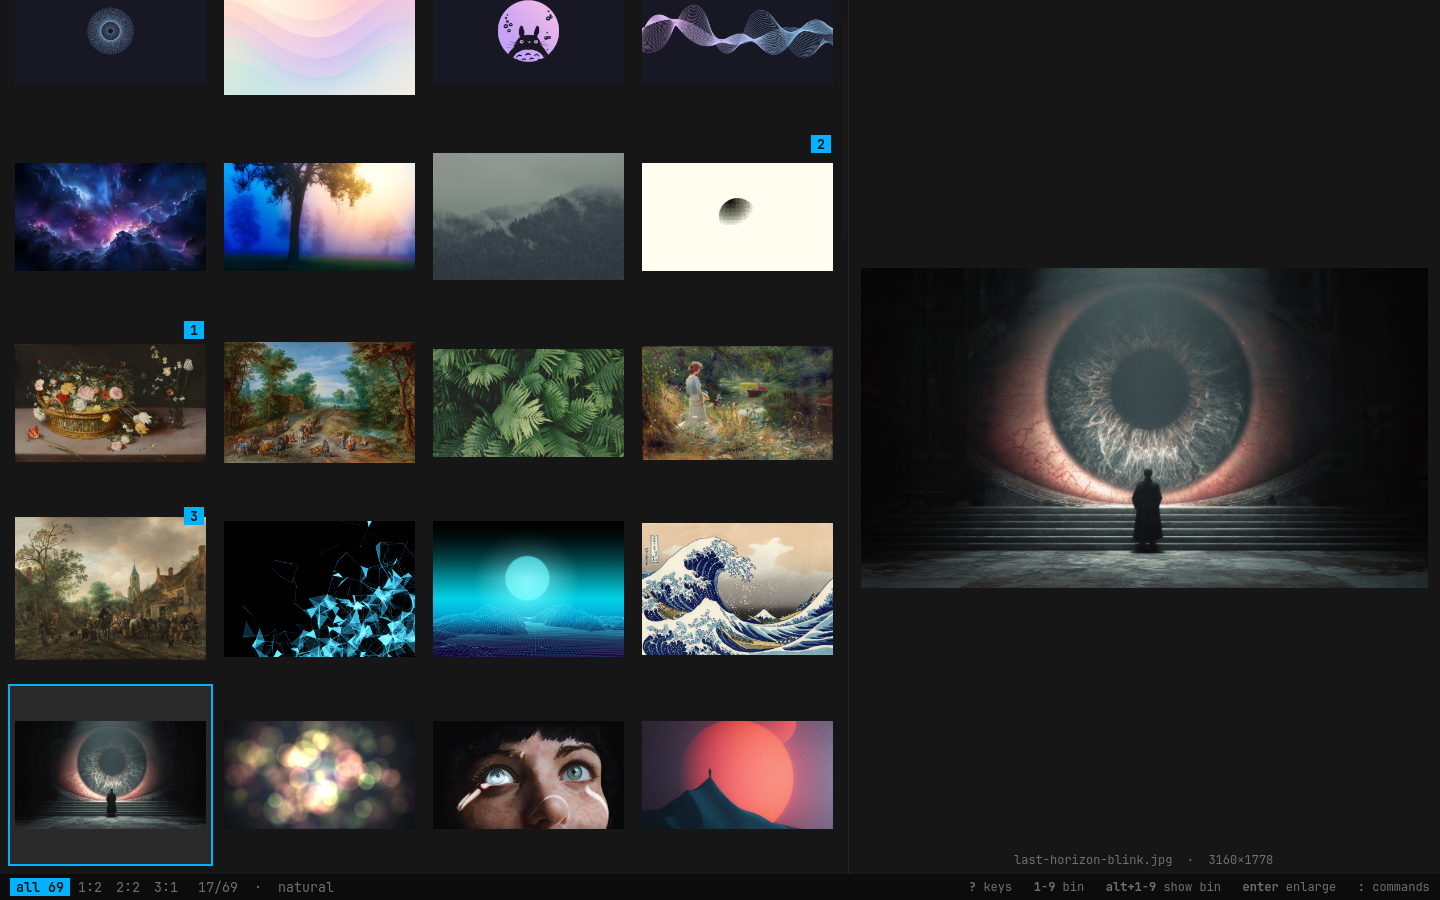
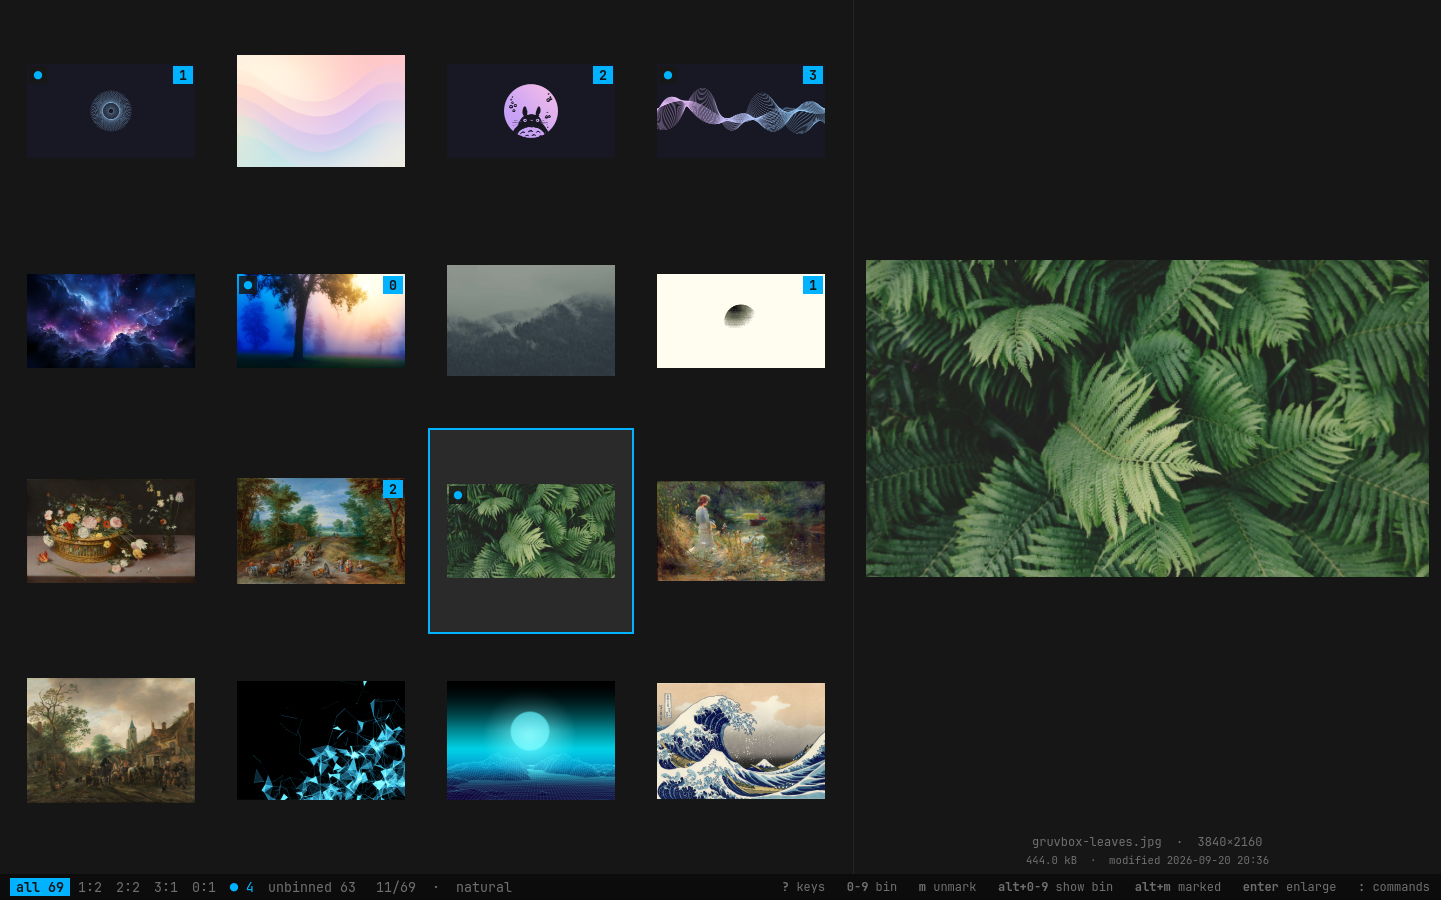
README: task recipes, grouped key tables, new screenshots

diff --git a/README.md b/README.md
@@ -4,7 +4,7 @@ A tiny, fast, keyboard-driven image viewer and *temporary* organizer for
 [Omarchy](https://omarchy.org) / Arch Linux. Native Rust + GTK4, themed from
 the active Omarchy theme.
 
-<img src="docs/screenshot.png" alt="omapic: thumbnail grid with workspace badges, preview pane and status line">
+<img src="docs/screenshot.png" alt="omapic: thumbnail grid with bin badges and marks, preview with info line, status line with context hints">
 
 The whole workflow:
 
@@ -33,9 +33,9 @@ Without the package, the desktop entry can be installed by hand:
     install -Dm644 data/org.omapic.Omapic.desktop -t ~/.local/share/applications/
     install -Dm644 data/org.omapic.Omapic.svg -t ~/.local/share/icons/hicolor/scalable/apps/
 
-ImageMagick (`magick`) is only needed for contact sheets. Animated GIFs play in
-the preview. JPEG, PNG, WebP,
-GIF and TIFF are loaded through gdk-pixbuf/glycin, which GTK4 already pulls in.
+ImageMagick (`magick`) is only needed for contact sheets and the suggested
+shell commands, `wl-clipboard` only to keep yanked paths after quitting.
+JPEG, PNG, WebP, GIF (animated in the preview) and TIFF are supported.
 
 ## Usage
 
@@ -43,67 +43,142 @@ GIF and TIFF are loaded through gdk-pixbuf/glycin, which GTK4 already pulls in.
     omapic image.jpg     # all images of that directory, image.jpg selected
     omapic DIR           # images of DIR
     omapic *.jpg …       # exactly the given files, in the given order
-
-With `--print` (or `--print0`), omapic writes the paths of the images shown
-at the moment you quit to stdout, in display order — so a bin can be handed
-to the shell without touching anything:
-
-    omapic --print *.jpg | xargs -d '\n' cp -t picked/    # quit while showing bin 1
+    omapic --print …     # on quit, print the paths of the images then shown
 
 Hover or move the selection to preview. The right end of the status line
-always hints at the keys that matter in the current context; `?` shows all.
+always hints at the keys that matter right now; `?` shows all of them.
+
+Three ideas carry everything:
+
+- **Bins** `1`…`9`, `0` — exclusive piles. Press a number to put the image in,
+  the same number to take it out. **Marks** (`m`) are one extra flag on top,
+  independent of the bins.
+- **Views** — `Alt+number` shows one bin, `Alt+M` the marked images, `Alt+U`
+  what isn't binned yet, `Esc` everything again. Each view can be arranged by hand.
+- **Commands** (`:`) act on exactly what the current view shows, in the order
+  shown — and they are the only thing that ever touches files.
+
+## How do I…
+
+**…cull a shoot?**
+`omapic ~/Pictures/shoot`, then `a` (auto-advance) and go through: `1` keep,
+`9` reject, anything else just `→`. `Enter` for a closer look, `z` for actual
+pixels — the zoom position stays when you step to the next frame, so near-
+duplicates are easy to compare. `u` takes back a slip. `Alt+U` shows what is
+still undecided.
+
+**…collect the keepers in a new folder?**
+`Alt+1` to show the bin, `:` → *Move workspace to folder…* (or *Copy…*), type
+the folder — it is created if it doesn't exist, `Tab` completes, `~` works —
+check the preview of what will happen, `y`.
+
+**…put images in a specific order and keep it?**
+In the view you want to arrange: `H` / `L` (or `Shift+←/→`) move the image
+back and forth, dragging a thumbnail moves it further. The status line says
+`manual`. When you then move, copy or link the view, omapic offers to keep
+the order as `001_name.jpg`, `002_…`; *Rename files in workspace according to
+current order…* does the same in place. `s` switches back to natural order
+(and remembers your arrangement).
+
+**…pick the best across several bins?**
+Mark them with `m` — marks don't disturb the bins. `Alt+M` shows the marked
+images as a view of their own, with their own order, and every command works
+on it.
+
+**…act on a run of images at once?**
+`v`, move to the other end (or shift-click), then a bin key, `m`, `r`, or `y`.
+
+**…make a contact sheet?**
+Show the bin, arrange it if you like, `:` → *Create contact sheet…*; `Enter`
+through output file, columns, size and labels to accept the defaults.
+
+**…batch-resize or convert a bin?**
+`!`, type `resize` or `webp` to narrow the suggestions, `↓` `Enter` to take
+one into the prompt, adjust, `Enter`, check the expanded commands, `y`.
+New files the command creates show up in the session.
+
+<img src="docs/shell-prompt.png" alt="The shell prompt with placeholders and ImageMagick suggestions">
+
+**…fix sideways photos?**
+`r` / `R` turns them on screen; `:` → *Save rotations to files…* writes it
+losslessly (EXIF orientation only, JPEG).
+
+**…get rid of the rejects?**
+`Alt+9`, `:` → *Move workspace to trash…*. It is the desktop trash, so
+nothing is gone for good.
+
+**…hand a bin to a shell pipeline without touching anything?**
+
+    omapic --print *.jpg | xargs -d '\n' cp -t picked/     # quit while showing the bin
+
+`--print0` for `xargs -0`. Inside omapic, `y` copies the selected paths and
+`Y` all shown paths to the clipboard.
+
+## Reference
 
 ### Keys
 
-| Key | Action |
+| Move around | |
 |---|---|
 | arrows, `h` `j` `k` `l` | move around the grid |
 | `Home` `End`, `g` `G` | first / last image |
 | `n` / `N` | next / previous binned image |
-| `Enter`, `Space` | enlarge preview (`Esc` to go back) |
-| `r` / `R` | rotate right / left — in the session only, until saved from the palette |
-| `z` | actual pixels at the pointer; drag or `Shift`+arrows / `H J K L` to pan; the position is kept from image to image |
-| `1` … `9`, `0` | put the selected image into that workspace; the same key again takes it out |
-| `m` | mark / unmark — a flag independent of the workspaces |
-| `v`, shift-click | select a range; a workspace key or `m` then applies to all of it (one undo step) |
+
+| Bin and mark | |
+|---|---|
+| `1` … `9`, `0` | put the image into that bin; the same key again takes it out |
+| `m` | mark / unmark — independent of the bins |
+| `v`, shift-click | select a range; bin keys, `m`, `r`, `y` then apply to all of it (one undo step) |
 | `a` | auto-advance on/off: binning moves on to the next image |
-| `Alt+1` … `Alt+9`, `Alt+0` | show only that workspace |
+| `u` / `U`, `Ctrl+R` | undo / redo binning, marking, ordering, rotating (never file operations) |
+
+| Views | |
+|---|---|
+| `Alt+1` … `Alt+9`, `Alt+0` | show only that bin |
 | `Alt+M` | show only the marked images |
-| `Alt+A`, `Esc` | show all images |
 | `Alt+U`, ``Alt+` `` | show only what isn't binned yet — a worklist that empties as you go |
-| `o` | order unsorted views by: natural → date taken → date modified → size → name |
-| `s` | manual sorting on / off for the current view |
+| `Alt+A`, `Esc` | show all images |
+
+| Arrange | |
+|---|---|
 | `Shift+←` `Shift+→`, `H` `L` | move the image backward / forward |
-| drag a thumbnail | reorder |
-| `u` / `U`, `Ctrl+R` | undo / redo binning, ordering, rotating and sort toggles (never file operations) |
-| `y` / `Y` | copy the path of the selected image(s) / of everything shown to the clipboard (kept after quitting via `wl-copy`, if installed) |
-| `+` / `-` | larger / smaller thumbnails |
-| `f` | file names under thumbnails |
+| drag a thumbnail | move it onto another position |
+| `s` | manual order on / off for the current view |
+| `o` | what unsorted views go by: natural → date taken → date modified → size → name |
+
+| Look closer | |
+|---|---|
+| `Enter`, `Space` | enlarge the preview (`Esc` to go back) |
+| `z` | actual pixels at the pointer; drag or `Shift`+arrows / `H J K L` pan; the position is kept from image to image |
+| `r` / `R` | rotate right / left — in the session only, until saved from the palette |
 | `i` | file and camera info (size, dates, camera, exposure) under the preview |
+| `f` | file names under thumbnails |
+| `+` / `-` | larger / smaller thumbnails |
+
+| Act | |
+|---|---|
 | `:` or `Ctrl+K` | command palette |
+| `!` | shell command on the images shown |
+| `y` / `Y` | copy the path of the selected image(s) / of everything shown (kept after quitting via `wl-copy`, if installed) |
 | `?` | key sheet |
 | `q` | quit |
 
-### Workspaces
+### Bins, marks and order
 
 Ten numbered bins, `1`–`9` and `0`. An image is in at most one; pressing
-its bin's key again takes it out, and assigning it elsewhere moves
-it, and it leaves the current view immediately if that view no longer
-matches. Tagged thumbnails carry a numbered badge, and the status line lists
-the non-empty bins with their counts.
+its bin's key again takes it out, assigning it elsewhere moves it, and it
+leaves the current view immediately if that view no longer matches. Binned
+thumbnails carry a numbered badge, and the status line lists the non-empty
+bins with their counts.
 
-On top of the bins there is one non-exclusive set: **marks** (`m`, shown as
-a dot on the thumbnail). A mark doesn't care which bin an image is in, so it
-serves for "the best across all bins" and as a hand-picked selection: show
-the marked images with `Alt+M` and every command acts on exactly those, in
-an order of their own if you arrange them. There is deliberately only one
-such flag — no ratings, colours or tags.
+On top of the bins there is one non-exclusive set: **marks** (`m`, a dot on
+the thumbnail). There is deliberately only one such flag — no ratings,
+colours or tags.
 
-Every view (each bin, the marked images, and "all") is either in natural order — the order the
-images were given or found, natural-sorted by name — or sorted by hand.
-Reordering turns manual sorting on; `s` switches back to natural order and
-remembers your arrangement in case you return. Reordering never renames
-anything.
+Every view (each bin, the marked images, the unbinned ones, and "all") is
+either in natural order — as given or found, natural-sorted by name, or
+whatever `o` selects — or arranged by hand. Reordering turns manual order on
+for that view only; it never renames anything.
 
 ### Commands
 
@@ -153,7 +228,7 @@ ever stores, and it holds commands, not anything about your images.
 
 ### Rotation
 
-`r` and `R` turn the selected image (or marked range) like everything else in
+`r` and `R` turn the selected image (or selected range) like everything else in
 omapic: on screen, in memory, undoable. The status line counts unsaved
 rotations. *Save rotations to files…* makes them permanent, losslessly: only
 the JPEG's EXIF orientation value is changed (two bytes, in place); a JPEG
